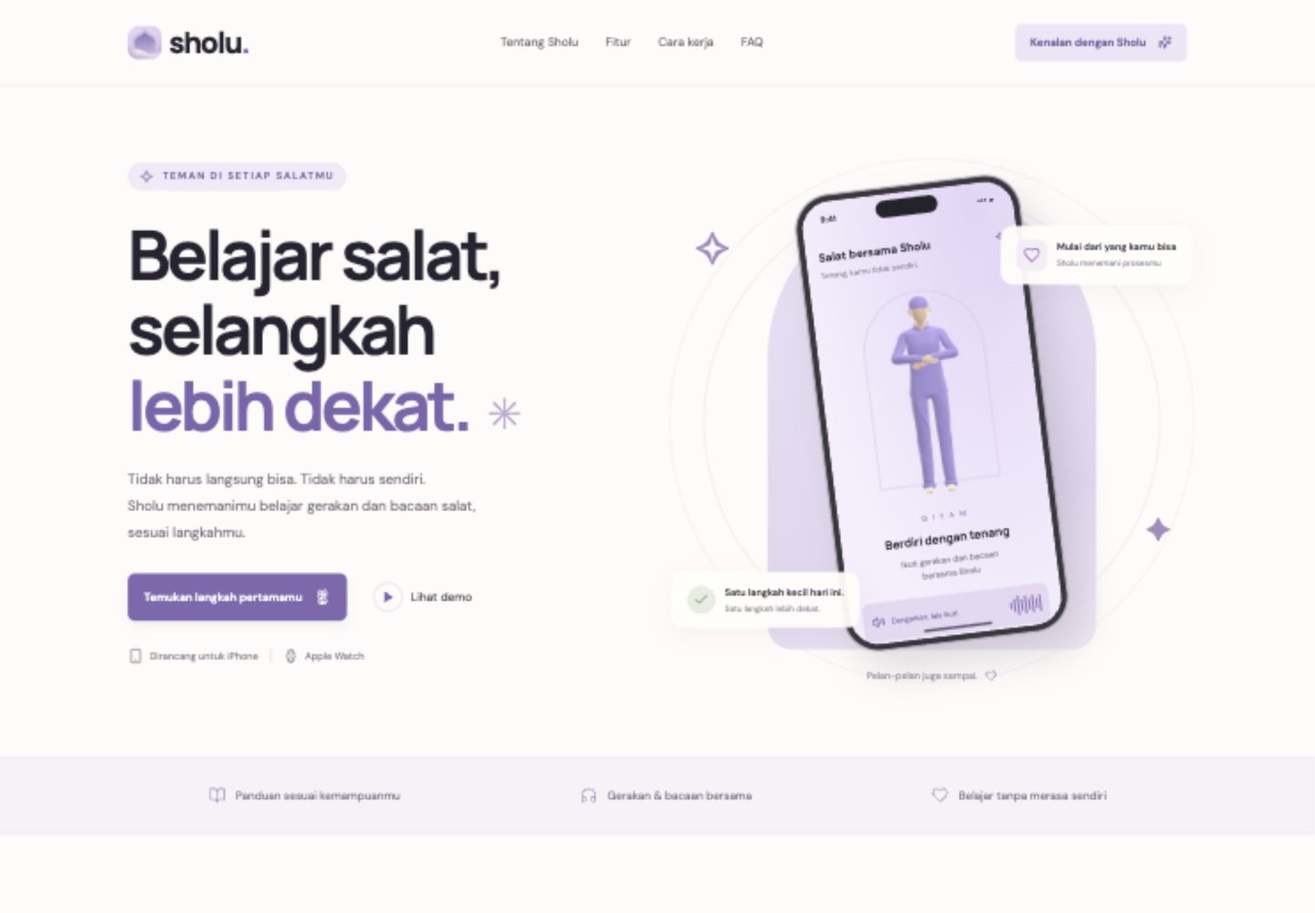
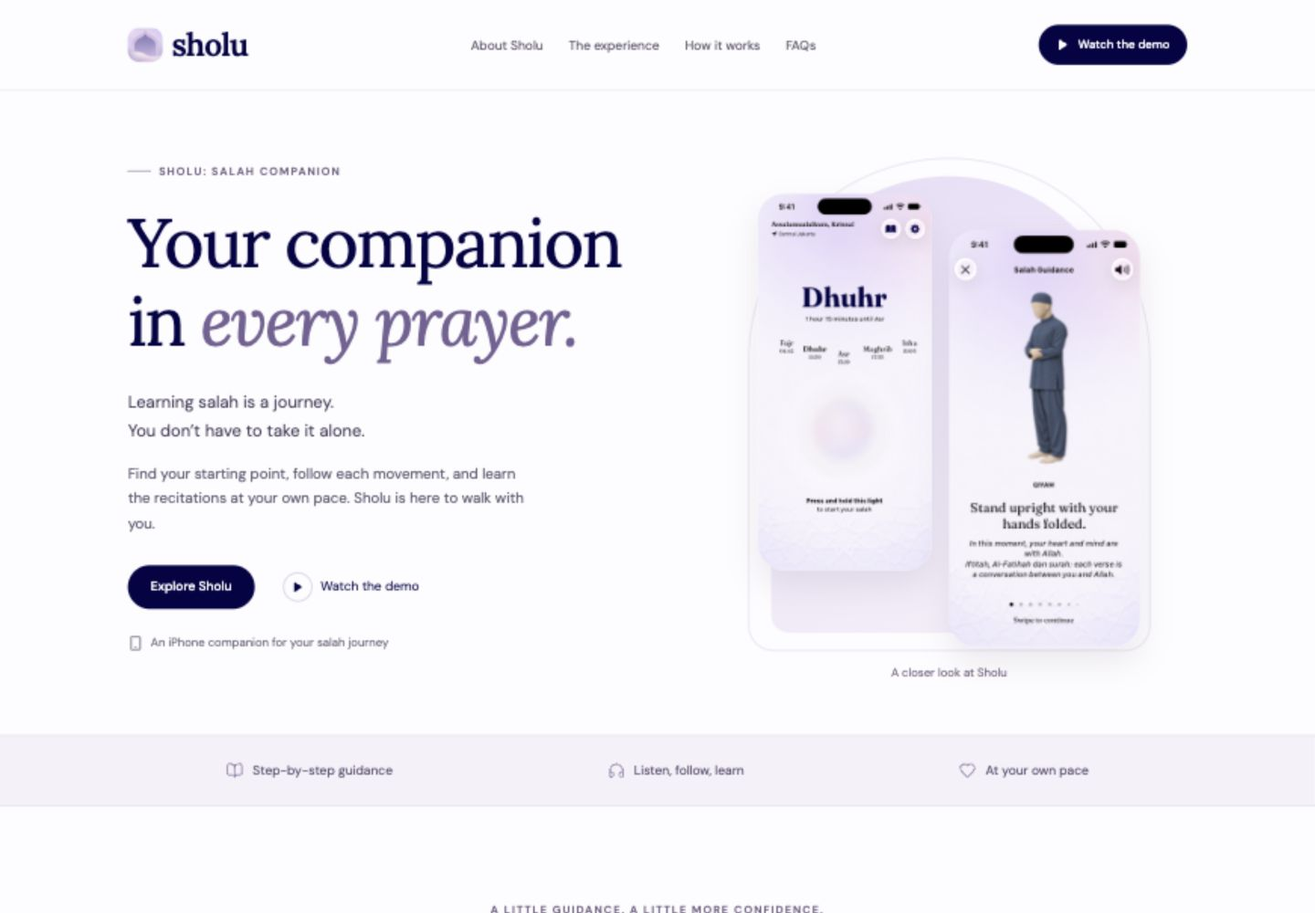
fix: change assets

diff --git a/src/styles.css b/src/styles.css
@@ -1,10 +1,7 @@
-@import url('https://fonts.googleapis.com/css2?family=DM+Sans:wght@400;450;500;550;600;650;700&family=Manrope:wght@400;500;600;650;700;750;800&display=swap');
-
-:root{font-family:'DM Sans',sans-serif;color:#252331;background:#fdfcfa;font-synthesis:none;font-size:16px;font-weight:400;--purple:#7d65af;--ink:#292435;--muted:#77727f;--line:#e9e5ee}*{box-sizing:border-box}html{scroll-behavior:smooth;scroll-padding-top:100px}body{margin:0}button,a{-webkit-tap-highlight-color:transparent}button,input{font:inherit}button,a,summary{touch-action:manipulation}button{cursor:pointer}a{color:inherit;text-decoration:none}button{color:inherit}button:focus-visible,a:focus-visible,summary:focus-visible{outline:3px solid #9f82d1;outline-offset:5px}button{border:0}button svg,a svg{flex-shrink:0}h1,h2,h3,p{margin:0}h1,h2,h3{font-family:'Manrope',sans-serif}h2{font-size:clamp(2rem,3.2vw,2.8rem);line-height:1.28;letter-spacing:-1.8px;font-weight:650}h2 span{color:var(--purple)}p{line-height:1.8;color:var(--muted)}.container{width:min(1160px,calc(100% - 96px));margin-inline:auto}.section{padding-block:104px}.section-label{font-size:.72rem;font-weight:650;letter-spacing:2.1px;color:var(--purple);display:flex;gap:9px;align-items:center;margin-bottom:22px}.header{height:94px;border-bottom:1px solid #eeebf0;background:#fdfcfaf5;position:relative;z-index:10}.nav{height:100%;display:flex;align-items:center;justify-content:space-between;gap:30px}.brand{display:flex;gap:8px;align-items:center;font-family:'Manrope',sans-serif;font-size:2rem;font-weight:800;letter-spacing:-1.7px}.brand img{width:37px;height:37px;border-radius:11px}.brand-dot{color:var(--purple)}.nav-links{display:flex;gap:30px;font-size:.82rem;color:#68636d}.nav-links a:hover{color:var(--purple)}.button{display:inline-flex;gap:13px;align-items:center;justify-content:center;border-radius:8px;padding:15px 22px;font-size:.8rem;font-weight:600;transition:transform .2s,background .2s}.button:hover{transform:translateY(-2px)}.nav-cta{background:#ece6f6;color:#6d559b;font-size:.75rem;padding:13px 17px}.primary{background:#8067af;color:white;box-shadow:0 5px 12px #765b9f16}.primary:hover{background:#6d559b}.menu-toggle{display:none;background:transparent}.hero{display:grid;grid-template-columns:1.02fr 1fr;align-items:center;min-height:735px;gap:30px;padding-block:42px 60px}.eyebrow{font-size:.68rem;letter-spacing:2px;display:flex;align-items:center;gap:8px}.hero-eyebrow{background:#f0eaf8;color:#7b629f;width:fit-content;padding:8px 13px;border-radius:30px;margin-bottom:27px;font-weight:600}.tiny-star{font-size:19px;line-height:15px}h1{position:relative;font-size:clamp(3.8rem,5.25vw,4.65rem);line-height:1.12;letter-spacing:-3.6px;font-weight:650;margin-bottom:26px}h1>span:not(.heading-spark){color:var(--purple)}.heading-spark{font-size:48px;color:#beadcf;display:inline-block;position:absolute;bottom:7px;margin-left:20px;font-weight:400}.hero-copy>p{font-size:.96rem;max-width:425px;line-height:1.85}.hero-actions{display:flex;align-items:center;gap:23px;margin-top:31px}.hero-actions .button{font-size:.76rem;padding:17px 18px}.video-button{background:transparent;display:flex;align-items:center;gap:9px;font-size:.8rem;white-space:nowrap}.play-circle{width:32px;height:32px;display:grid;place-items:center;border:1px solid #dcd4e7;border-radius:50%;color:var(--purple)}.platforms{display:flex;gap:7px;align-items:center;margin-top:30px;color:#8c8593;font-size:.68rem}.platform-divider{height:13px;width:1px;background:#d8d2dc;margin:0 6px}.hero-visual{position:relative;min-height:610px;display:flex;justify-content:center;align-items:center}.arch-back{width:360px;height:500px;background:linear-gradient(160deg,#e9e0f4,#e2d7ef 70%,#f0e9f4);border-radius:200px 200px 30px 30px;position:absolute;top:64px;left:50%;transform:translateX(-50%)}.orbit{position:absolute;border:1px solid #eae2f0;border-radius:50%;width:500px;height:500px;top:65px;left:50%;transform:translateX(-50%)}.orbit-two{width:575px;height:575px;top:26px;border-color:#f0eaf4}.phone{position:relative;width:249px;height:505px;background:#39363e;border:2px solid #b6b0bc;border-radius:40px;padding:6px;box-shadow:13px 24px 40px #4b355128;transform:rotate(-7deg);z-index:2}.phone-screen{height:100%;background:radial-gradient(ellipse at 80% 5%,#e4d5f8,transparent 75%),#f5effc;border-radius:32px;overflow:hidden;position:relative;padding:14px 14px}.phone-status{font-size:9px;font-weight:700;display:flex;justify-content:space-between;padding:0 7px}.phone-island{background:#25222b;width:68px;height:19px;position:absolute;top:7px;left:50%;transform:translateX(-50%);border-radius:20px}.phone-heading{margin-top:27px;display:flex;justify-content:space-between;font-size:.78rem;font-weight:650}.phone-subhead{font-size:.54rem;color:#8b7e98;margin-top:6px}.phone-pose{height:249px;display:flex;justify-content:center;position:relative;margin-top:9px}.phone-pose:before{content:'';position:absolute;width:130px;height:210px;border:1px solid #d8c9eb;border-radius:100px 100px 0 0;top:14px}.phone-pose img{width:175px;height:255px;object-fit:contain;position:relative;z-index:1}.phone-instruction{text-align:center;margin-top:0}.phone-instruction small{font-size:8px;letter-spacing:2px;color:#8e77aa}.phone-instruction h3{font-size:.8rem;margin:8px 0}.phone-instruction p{font-size:.58rem;line-height:1.6}.phone-audio{background:#e5d9f3;color:#795a9d;border-radius:9px;padding:11px 9px;margin-top:15px;display:flex;align-items:center;gap:7px;font-size:.5rem}.sound-wave{display:flex;align-items:center;gap:2px;margin-left:auto}.sound-wave i{width:2px;background:#8d70b5;border-radius:2px}.phone-bottom{position:absolute;bottom:7px;left:50%;transform:translateX(-50%);width:75px;height:3px;background:#645a71;border-radius:5px}.floating-note{position:absolute;background:#fffefaf2;border:1px solid #fff;box-shadow:0 7px 30px #5743650d;border-radius:13px;padding:14px 16px;display:flex;align-items:center;gap:10px;z-index:4;font-size:.66rem;font-weight:600;transform:rotate(0deg)}.floating-note small{display:block;color:#9a91a1;font-size:.57rem;margin-top:5px;font-weight:400}.note-top{top:100px;right:-5px}.note-icon{width:34px;height:34px;background:#f4edf9;color:#9677b9;display:grid;place-items:center;border-radius:10px}.note-bottom{bottom:70px;left:-5px}.check-badge{background:#e7ede2;color:#889777;width:31px;height:31px;display:grid;place-items:center;border-radius:50%}.visual-star{position:absolute;color:#a68bbb;z-index:4}.star-one{font-size:49px;left:20px;top:94px}.star-two{font-size:35px;right:18px;bottom:155px}.visual-caption{position:absolute;bottom:10px;left:50%;transform:translateX(-50%);white-space:nowrap;display:flex;gap:8px;align-items:center;font-size:.66rem;color:#a196aa}.values-strip{border-block:1px solid var(--line);background:#f6f3f9}.values-inner{display:flex;justify-content:space-around;gap:20px;align-items:center;min-height:82px}.values-inner>span{display:flex;align-items:center;gap:11px;font-size:.77rem;color:#756b80}.values-inner svg{width:19px;color:#a38ab8;stroke-width:1.5}.intro{text-align:center;max-width:720px;padding-bottom:80px}.intro .section-label{justify-content:center}.intro h2{margin-bottom:25px}.intro>p{font-size:.94rem;max-width:585px;margin:auto}.intro-signature{display:flex;gap:15px;align-items:center;justify-content:center;font-size:.7rem;color:#a49aa8;margin-top:30px}.signature-line{width:32px;height:1px;background:#dcd2e2}.section-heading{display:flex;align-items:flex-end;justify-content:space-between;gap:30px;margin-bottom:38px}.section-heading>p{font-size:.88rem;margin-bottom:5px}.features{padding-top:50px}.feature-grid{display:grid;grid-template-columns:repeat(3,1fr);gap:20px}.feature-card{border:1px solid #eae4ee;border-radius:18px;background:#f7f3fb;overflow:hidden;position:relative;min-height:447px;padding:28px 27px 22px}.feature-icon{width:40px;height:40px;border:1px solid #e5d9ee;display:grid;place-items:center;border-radius:12px;color:#9578b1;background:#ffffff60;margin-bottom:21px}.feature-card h3{font-size:1.3rem;line-height:1.5;letter-spacing:-.6px;font-weight:600;margin-bottom:12px}.feature-card p{font-size:.8rem;line-height:1.8}.recitation{background:#f7f7f2;border-color:#e8e8df}.recitation .feature-icon{color:#929a77;border-color:#e1e4d7}.qibla{background:#f9f3ee;border-color:#eee4dc}.qibla .feature-icon{color:#b99a7c;border-color:#eadccf}.movement-art{height:154px;display:flex;justify-content:center;gap:10px;position:relative;margin-top:20px}.mini-arch{height:148px;width:110px;background:#e6dbf1;border-radius:70px 70px 6px 6px;overflow:hidden;display:flex;justify-content:center}.mini-arch img{width:120px;height:185px;object-fit:contain;object-position:top}.mini-arch.second{background:#eae1f1}.second img{height:142px;width:105px;align-self:flex-end}.art-flower{position:absolute;right:8px;top:-8px;font-size:32px;color:#b8a2c7}.card-footnote{display:block;font-size:.63rem;color:#9a8ca5;margin-top:15px;text-align:center}.audio-art{margin-top:28px;height:146px;text-align:center}.audio-label{display:flex;align-items:center;justify-content:center;gap:7px;color:#8c9573;font-size:.67rem}.waveform{height:86px;display:flex;gap:4px;align-items:center;justify-content:center}.waveform i{width:4px;max-width:3%;background:#abb395;border-radius:5px}.audio-art>span:last-child{font-size:.64rem;color:#a0a48d}.recitation .card-footnote{color:#969a85}.compass-art{height:151px;width:151px;margin:18px auto 0;border-radius:50%;border:1px solid #dcc9b7;position:relative;background:repeating-conic-gradient(from 0deg,#ceb69d 0 1deg,transparent 1deg 15deg);box-shadow:inset 0 0 0 9px #f9f3ee}.compass-art>span{position:absolute;font-size:8px;color:#a58e7b;background:#f9f3ee;padding:2px}.north{top:11px;left:69px}.south{bottom:11px;left:69px}.west{left:12px;top:65px}.east{right:12px;top:65px}.compass-inner{position:absolute;inset:32px;border:1px solid #e3d6c8;background:#f9f3ee;border-radius:50%}.compass-needle{position:absolute;top:7px;left:34px;width:15px;height:69px;background:linear-gradient(#ba9978 50%,#e7dacd 50%);clip-path:polygon(50% 0,100% 50%,50% 100%,0 50%);transform:rotate(33deg)}.compass-center{position:absolute;top:36px;left:36px;width:10px;height:10px;background:#f9f3ee;border:2px solid #b99a7c;border-radius:50%}.qibla .card-footnote{color:#ab9583}.journey-wrap{background:#f6f3f9;border-block:1px solid #ece5f0}.journey{display:grid;grid-template-columns:1fr 1fr;gap:100px;align-items:center}.guide-preview{background:#fffdfa;border:1px solid #e9e0ee;border-radius:20px;padding:24px 24px 19px}.preview-top{display:flex;justify-content:space-between;gap:10px;align-items:center;font-size:.68rem;color:#8b779f}.preview-top>span{display:flex;gap:7px;align-items:center}.preview-top small{font-size:.5rem;letter-spacing:1px;color:#b5a9bd}.preview-scene{height:320px;position:relative;display:flex;align-items:center;justify-content:center;margin-top:20px}.preview-arch{position:absolute;width:225px;height:285px;border-radius:130px 130px 0 0;background:linear-gradient(#e9dff5,#f8f4fc);bottom:15px}.preview-scene img{height:295px;width:260px;object-fit:contain;position:relative;animation:appear .35s ease}.preview-step-name{position:absolute;bottom:6px;font-size:.63rem;background:#fffdfbe8;padding:6px 15px;border-radius:20px;color:#8c739e;border:1px solid #ede4f3}.preview-controls{display:flex;gap:6px;padding:5px;background:#f2eef6;border-radius:9px;margin-top:16px}.preview-controls button{flex:1;padding:11px;background:transparent;border-radius:6px;color:#9a8aa8;font-size:.72rem}.preview-controls button.active{background:white;box-shadow:0 2px 8px #5d3e6b0b;color:#785d98}.guide-preview>p{font-size:.65rem;text-align:center;margin-top:14px}.journey-copy>p{font-size:.87rem;margin-top:21px}.journey-list{padding:0;list-style:none;display:flex;flex-direction:column;gap:25px;margin:29px 0 0}.journey-list li{display:flex;gap:16px;position:relative}.step-marker{width:36px;height:36px;border:1px solid #e0d5e9;border-radius:50%;display:grid;place-items:center;flex-shrink:0;color:#a188b4;background:#faf7fc}.journey-list li:not(:last-child):before{content:'';position:absolute;top:42px;bottom:-19px;left:18px;width:1px;background:#e1d8e8}.journey-list h3{font-size:.85rem;margin:2px 0 7px;font-weight:650}.journey-list p{font-size:.77rem;line-height:1.7}.watch-section{display:grid;grid-template-columns:1fr 1fr;align-items:center;gap:80px;padding-top:110px;padding-bottom:90px}.watch-copy>p{font-size:.88rem;margin-top:22px;max-width:410px}.device-note{display:flex;gap:8px;align-items:center;color:#a297aa;font-size:.67rem;margin-top:24px}.watch-art{height:340px;display:flex;align-items:center;justify-content:center;position:relative;background:radial-gradient(ellipse,#eee6f7,transparent 66%)}.watch-orbit{width:310px;height:310px;position:absolute;border:1px solid #eee6f3;border-radius:50%}.watch-strap{width:123px;height:332px;background:linear-gradient(90deg,#c1adc9,#d5c4db 25%,#d4c3da 75%,#b9a3c2);border-radius:33px;transform:rotate(12deg);position:absolute;border:1px solid #bda9c6}.watch-body{width:187px;height:220px;background:#b9afbf;padding:7px;border-radius:46px;transform:rotate(12deg);box-shadow:12px 18px 25px #4e3f5c21;border:2px solid #dcd4de;position:relative}.watch-crown{position:absolute;right:-8px;top:49px;width:7px;height:26px;background:#aba1b2;border-radius:0 4px 4px 0}.watch-face{height:100%;background:#27202f;border:4px solid #3f3547;border-radius:36px;color:#e4d7f1;display:flex;flex-direction:column;align-items:center;padding:12px;position:relative}.watch-time{align-self:flex-end;font-size:.6rem}.watch-brand{position:absolute;left:12px;top:12px;font-size:.65rem;font-weight:700}.watch-face>svg{margin:9px 0;color:#bca2dc}.watch-face h3{font-size:.75rem;font-weight:500;margin-bottom:5px}.watch-face p{font-size:.51rem;line-height:1.6;text-align:center;color:#ac9cb9}.watch-pill{display:flex;align-items:center;gap:5px;background:#55416c;color:#dfcdef;font-size:.45rem;padding:7px 8px;border-radius:20px;margin-top:11px}.watch-spark{position:absolute;right:60px;top:30px;color:#b19ac5;font-size:46px}.faq-section{display:grid;grid-template-columns:.8fr 1.2fr;gap:90px;border-top:1px solid var(--line);padding-top:84px}.faq-heading>p{font-size:.85rem;margin-top:20px}.faq-list details{border-bottom:1px solid var(--line);padding:23px 0}.faq-list details:first-child{padding-top:8px}.faq-list summary{display:flex;align-items:center;justify-content:space-between;gap:20px;list-style:none;cursor:pointer;font-size:.86rem;font-weight:500}.faq-list summary::-webkit-details-marker{display:none}.faq-list summary svg{color:#9d8bab;flex-shrink:0;transition:transform .2s}.faq-list details[open] svg{transform:rotate(180deg)}.faq-list details p{font-size:.8rem;margin-top:17px;max-width:510px}.closing{position:relative;overflow:hidden;background:#eee6f6;border:1px solid #e5d9ee;border-radius:23px;text-align:center;padding:70px 25px;margin-top:10px}.closing:after,.closing:before{content:'';position:absolute;border:1px solid #dfd1eb;border-radius:50%;width:480px;height:480px;right:-290px;top:-80px;pointer-events:none}.closing:after{right:auto;left:-330px;width:520px;height:520px;top:60px}.closing .section-label{justify-content:center;font-size:.65rem}.closing h2{font-size:3rem;letter-spacing:-1.8px}.closing>p{font-size:.86rem;margin-top:20px;color:#93829e}.closing .button{margin-top:26px}.closing-note{display:block;font-size:.63rem;color:#a48eb3;margin-top:17px}.closing-flower{position:absolute;top:28px;right:70px;font-size:66px;color:#d1bddf}.footer{min-height:133px;display:flex;align-items:center;gap:23px}.footer .brand{font-size:1.65rem}.footer .brand img{width:30px;height:30px;border-radius:9px}.footer>span{font-size:.68rem;color:#a69aaf}.footer>a:not(.brand){margin-left:auto;font-size:.68rem;color:#8b7a99}.footer .copyright{margin-left:15px;font-size:.6rem}.video-modal{width:min(960px,calc(100% - 32px));padding:0;border:1px solid #d8cce3;border-radius:16px;background:#fdfcfa;max-height:90dvh;box-shadow:0 30px 100px #16101f55}.video-modal::backdrop{background:#22182dcc;backdrop-filter:blur(8px)}.modal-header{display:flex;align-items:center;justify-content:space-between;padding:15px 20px;font-size:.85rem}.modal-header button{display:grid;place-items:center;background:#eee6f6;border-radius:50%;width:34px;height:34px}.video-modal video{display:block;width:100%;max-height:76dvh;background:#171020}.skip-link{position:fixed;top:-100px;left:12px;z-index:100;background:white;padding:14px}.skip-link:focus{top:12px}@keyframes appear{from{opacity:0;transform:translateY(7px)}to{opacity:1;transform:translateY(0)}}
-@media(min-width:1500px){.hero{min-height:790px}.hero-visual{transform:scale(1.07)}}
-@media(max-width:1100px){.container{width:calc(100% - 64px)}.nav-links{gap:20px}.hero{gap:10px}.hero-actions{gap:14px}.hero-actions .button{font-size:.67rem}.hero-visual{transform:scale(.91);transform-origin:center}.hero-copy{position:relative;z-index:3}h1{font-size:3.8rem}.heading-spark{font-size:36px;margin-left:10px}.journey{gap:50px}.feature-card{padding:24px 20px}.note-top{right:-15px}.note-bottom{left:-20px}}
-@media(max-width:800px){.header{height:80px}.nav-links{gap:17px;font-size:.73rem}.nav-cta{display:none}.hero{grid-template-columns:1fr 1fr;min-height:620px;padding-block:30px}.hero-visual{transform:scale(.76);margin-inline:-50px;min-height:580px}.hero-copy{min-width:310px}.hero-eyebrow{font-size:.55rem}h1{font-size:3.2rem;letter-spacing:-2.5px}.heading-spark{font-size:28px}.hero-copy>p{font-size:.82rem}.hero-actions{flex-wrap:wrap;gap:14px}.platforms{font-size:.57rem;gap:4px}.platforms svg{width:14px}.values-inner>span{font-size:.63rem;gap:6px}.values-inner svg{width:16px}.feature-grid{gap:12px}.feature-card{padding:21px 16px}.feature-card h3{font-size:1.05rem}.feature-card p{font-size:.72rem}.card-footnote{font-size:.55rem}.mini-arch{width:80px}.movement-art{gap:7px}.mini-arch img{width:100px}.second img{width:85px}.section{padding-block:76px}.section-heading>p{font-size:.78rem}.journey{gap:28px}.journey-copy h2{font-size:1.85rem;letter-spacing:-1px}.guide-preview{padding:19px 15px}.preview-top small{display:none}.journey-list{gap:20px}.journey-list p{font-size:.71rem}.watch-section{gap:40px}.watch-copy h2{font-size:2rem}.watch-spark{right:0}.faq-section{gap:40px}.closing h2{font-size:2.5rem}.footer{gap:15px}}
-@media(max-width:600px){.container{width:calc(100% - 40px)}.header{height:74px}.brand{font-size:1.8rem}.brand img{width:32px;height:32px}.nav{gap:12px}.menu-toggle{display:block;padding:7px;margin-right:-7px}.nav-links{display:none;position:absolute;top:73px;left:0;right:0;background:#fdfcfa;padding:25px;border-bottom:1px solid #e8e0ee;box-shadow:0 12px 20px #4736520b}.nav-links.open{display:flex;flex-direction:column;gap:24px}.hero{display:flex;flex-direction:column;gap:0;min-height:0;padding-top:43px;padding-bottom:24px}.hero-copy{width:100%;min-width:0}.hero-eyebrow{font-size:.58rem;margin-bottom:23px}h1{font-size:clamp(3.25rem,12.2vw,4.2rem);letter-spacing:-2.7px;line-height:1.13;margin-bottom:21px}h1 br:nth-of-type(2){display:none}h1>span:not(.heading-spark){display:block}.heading-spark{bottom:9px;right:18px;font-size:33px}.hero-copy>p{font-size:.88rem;max-width:350px}.desktop-break{display:none}.hero-actions{gap:16px;margin-top:24px;flex-wrap:nowrap}.hero-actions .button{font-size:.65rem;padding:15px 12px;gap:8px}.hero-actions .button svg{width:16px}.video-button{font-size:.72rem;gap:6px;padding:0}.play-circle{width:29px;height:29px}.platforms{font-size:.61rem;margin-top:23px}.hero-visual{width:100%;height:540px;min-height:540px;transform:scale(.84);margin-top:-10px;margin-bottom:-50px;margin-inline:0}.note-top{right:-15px;top:95px}.note-bottom{left:-15px;bottom:60px}.floating-note{padding:12px;font-size:.61rem}.floating-note small{font-size:.52rem}.arch-back{width:330px;height:470px;top:44px}.orbit-one{width:395px;height:395px;top:80px}.orbit-two{width:440px;height:440px;top:58px}.phone{width:235px;height:478px}.phone-pose{height:230px}.phone-pose img{height:238px}.phone-instruction h3{font-size:.74rem}.phone-audio{margin-top:12px}.star-one{left:0;top:65px}.star-two{right:0;bottom:130px}.visual-caption{bottom:-10px}.values-inner{min-height:0;flex-wrap:wrap;justify-content:center;gap:17px 20px;padding-block:21px}.values-inner>span{font-size:.62rem}.values-inner>span:last-child{flex-basis:100%;justify-content:center}.section{padding-block:66px}h2{font-size:2rem;letter-spacing:-1.1px}.section-label{font-size:.61rem;letter-spacing:1.6px;margin-bottom:19px}.intro>p{font-size:.84rem}.intro-signature{font-size:.6rem;gap:9px;line-height:1.6}.signature-line{width:17px;flex-shrink:0}.features{padding-top:10px}.section-heading{display:block;margin-bottom:28px}.section-heading>p{font-size:.82rem;margin-top:20px}.feature-grid{grid-template-columns:1fr;gap:16px}.feature-card{padding:26px;min-height:0}.feature-card h3{font-size:1.35rem}.feature-card p{font-size:.83rem;max-width:290px}.feature-icon{margin-bottom:16px}.movement-art{height:160px;margin-top:24px}.mini-arch{width:120px;height:154px}.mini-arch img{width:130px;height:192px}.second img{width:120px;height:150px}.art-flower{right:15px}.card-footnote{font-size:.65rem}.audio-art{margin-top:25px;height:130px}.audio-label{font-size:.72rem}.waveform{gap:5px}.audio-art>span:last-child{font-size:.67rem}.compass-art{margin-block:25px 12px}.journey{display:flex;flex-direction:column-reverse;gap:35px}.journey-copy h2{font-size:2rem}.journey-copy>p{font-size:.84rem}.journey-list{gap:24px}.journey-list h3{font-size:.85rem}.journey-list p{font-size:.8rem}.guide-preview{width:100%;padding:21px}.preview-top small{display:block;font-size:.46rem}.preview-scene{height:300px}.preview-scene img{height:280px}.preview-arch{height:275px}.guide-preview>p{font-size:.64rem}.watch-section{grid-template-columns:1fr;gap:26px;padding-bottom:50px}.watch-copy>p{font-size:.84rem}.watch-art{height:330px}.watch-spark{right:25px}.faq-section{grid-template-columns:1fr;gap:28px;padding-top:53px}.faq-heading>p{font-size:.83rem}.faq-heading>p br{display:none}.faq-list summary{font-size:.8rem;line-height:1.7}.faq-list details{padding:21px 0}.faq-list details p{font-size:.8rem}.closing{padding:57px 18px;border-radius:18px}.closing h2{font-size:2.2rem}.closing-flower{font-size:38px;right:16px;top:53px;color:#d9c8e5}.closing .section-label{font-size:.53rem;letter-spacing:1px}.closing>p{font-size:.8rem}.closing-note{font-size:.58rem}.footer{display:grid;grid-template-columns:1fr 1fr;gap:17px;padding-block:32px}.footer .brand{grid-column:1}.footer>span{font-size:.62rem}.footer>span:not(.copyright){grid-column:1;grid-row:2}.footer>a:not(.brand){grid-column:2;grid-row:1;margin-left:0;text-align:right;font-size:.62rem}.footer .copyright{grid-column:2;grid-row:2;margin:0;text-align:right}.video-modal{width:calc(100% - 24px)}.modal-header{padding:12px;font-size:.75rem}}
-main{overflow-x:clip}
-@media(max-width:600px){.heading-spark{display:none}}
+@import url('https://fonts.googleapis.com/css2?family=DM+Sans:wght@400;500;600;700&family=Lora:ital,wght@0,400;0,500;0,600;1,400;1,500&display=swap');
+:root{font-family:'DM Sans',sans-serif;color:#070346;background:#fdfcfe;font-synthesis:none;--navy:#070346;--muted:#645e76;--lavender:#eee7fa;--line:#e5deed;--accent:#746194}*{box-sizing:border-box}html{scroll-behavior:smooth;scroll-padding-top:35px}body{margin:0}h1,h2,h3,p,figure{margin:0}button,a,summary{touch-action:manipulation;-webkit-tap-highlight-color:transparent}a{color:inherit;text-decoration:none}button{font:inherit;color:inherit;cursor:pointer;border:0}a,button,summary{transition:background .2s,color .2s,box-shadow .2s}button:focus-visible,a:focus-visible,summary:focus-visible{outline:3px solid #8461c3;outline-offset:5px}p{color:var(--muted);font-size:1rem;line-height:1.75}h1,h2{font-family:'Lora',Georgia,serif;font-weight:400;letter-spacing:-2px;line-height:1.17}h1{font-size:clamp(3.5rem,5.2vw,4.65rem)}h2{font-size:clamp(2.25rem,3.3vw,3rem)}h1 em,h2 em{font-weight:400;color:var(--accent)}h3{font-size:1.1rem;font-weight:600;line-height:1.5;letter-spacing:-.3px}.container{width:min(1160px,calc(100% - 96px));margin-inline:auto}.section{padding-block:104px}.eyebrow{display:flex;align-items:center;gap:9px;font-size:.75rem;font-weight:600;letter-spacing:1.8px;line-height:1.6;color:#726184;margin-bottom:24px}.eyebrow-line{width:25px;height:1px;background:#8e7aa5}.button{background:#070346;color:white;display:inline-flex;align-items:center;justify-content:center;gap:10px;min-height:48px;padding:14px 25px;border-radius:28px;font-size:.875rem;font-weight:500}.button:hover{background:#211966;box-shadow:0 5px 20px #07034617}.icon-button{width:44px;height:44px;display:grid;place-items:center;background:#eee8f6;border-radius:50%}.icon-button:hover{background:#e3d8f2}.brand{display:flex;gap:10px;align-items:center;font-family:'Lora',Georgia,serif;font-size:2.15rem;font-weight:600;letter-spacing:-1px}.brand img{border-radius:12px;object-fit:cover}.navigation{height:98px;display:flex;justify-content:space-between;align-items:center;gap:28px}header{border-bottom:1px solid #ede8f2;position:relative;z-index:10;background:#fdfcfe}.nav-links{display:flex;gap:28px;font-size:.875rem;color:#62596f}.nav-links a{padding-block:12px}.nav-links a:hover{color:#070346}.nav-button{font-size:.8rem;min-height:44px;padding:12px 19px}.mobile-menu{display:none}.hero{display:grid;grid-template-columns:1.1fr 1fr;align-items:center;gap:65px;min-height:706px;padding-block:55px 68px}.hero-copy h1{margin-bottom:29px}.hero-copy>p:not(.hero-description){font-size:1.15rem;color:#453d59;line-height:1.7}.hero-description{max-width:435px;margin-top:17px}.hero-actions{display:flex;align-items:center;gap:25px;margin-top:31px}.text-button{min-height:44px;background:transparent;display:flex;align-items:center;gap:9px;font-size:.875rem}.text-button:hover{color:#746194}.play-icon{width:32px;height:32px;display:grid;place-items:center;border:1px solid #ccc1dc;border-radius:50%}.hero-platform{display:flex;align-items:center;gap:8px;font-size:.8rem;color:#72687f;margin-top:29px}.hero-screens{height:555px;position:relative;display:flex;justify-content:center;align-items:center;gap:19px}.hero-arch{position:absolute;width:390px;height:500px;top:25px;border-radius:220px 220px 22px 22px;background:linear-gradient(155deg,#e8def8,#f4edf9 85%)}.arch-outline{position:absolute;width:440px;height:540px;top:5px;border-radius:240px 240px 30px 30px;border:1px solid #e5d9ef}.hero-screens img{display:block;width:100%;height:auto;border-radius:30px;box-shadow:0 16px 35px #34264a17}.home-screen{width:191px;position:relative;transform:translateY(-27px);z-index:2}.guide-screen{width:210px;position:relative;transform:translateY(35px);z-index:3}.screens-caption{position:absolute;bottom:-22px;color:#766884;font-size:.8rem}.promise-strip{background:#f5f1fa;border-block:1px solid var(--line)}.promises{display:flex;justify-content:space-around;gap:20px;padding-block:26px}.promises span{display:flex;gap:10px;align-items:center;font-size:.875rem;color:#5e5171}.promises svg{width:19px;color:#87729e;stroke-width:1.5}.intro{text-align:center;max-width:760px}.intro .eyebrow{justify-content:center}.intro h2{margin-bottom:28px}.intro>p{max-width:640px;margin:0 auto 15px}.intro-bottom{display:flex;justify-content:center;align-items:center;gap:15px;margin-top:30px;font-size:.875rem;color:#71617f}.intro-bottom>span{width:30px;height:1px;background:#d4c6e0}.experience{background:#f6f3fa;border-block:1px solid var(--line)}.section-heading{display:flex;justify-content:space-between;align-items:flex-end;gap:30px;margin-bottom:50px}.section-heading>p{max-width:400px}.experience-grid{display:grid;grid-template-columns:1fr 1fr;gap:85px;align-items:center}.screen-gallery{padding:28px 30px;background:#fdfcfe;border:1px solid #e8dfef;border-radius:22px}.gallery-stage{height:410px;display:flex;justify-content:center;align-items:center;position:relative}.screen-halo{position:absolute;inset:20px 45px;background:#eee6f8;border-radius:160px 160px 15px 15px}.gallery-stage img{position:relative;width:177px;height:auto;display:block;border-radius:25px;box-shadow:0 9px 24px #35234612;animation:appear .2s ease}.screen-tabs{display:flex;gap:5px;background:#f1ecf7;border-radius:30px;padding:5px;margin-top:23px}.screen-tabs button{min-height:44px;border-radius:24px;flex:1;font-size:.875rem;background:transparent;color:#6c5d7d}.screen-tabs button:hover{background:#e4daf0}.screen-tabs button.selected{background:#070346;color:white}.gallery-caption{text-align:center;margin-top:24px;min-height:112px}.gallery-caption h3{font-size:1rem;margin-bottom:8px}.gallery-caption p{font-size:.875rem}.experience-details>article{display:flex;gap:20px;margin-bottom:33px}.feature-icon{flex-shrink:0;display:grid;place-items:center;width:45px;height:45px;border:1px solid #d8cce5;border-radius:13px;color:#73608e}.feature-icon svg{width:21px}.experience-details h3{margin:4px 0 9px}.experience-details p{font-size:1rem}.recitation-screenshot{margin-top:35px;padding:20px;background:#ebe3f4;border:1px solid #e1d5eb;border-radius:18px}.recitation-screenshot img{display:block;width:100%;height:auto;border-radius:15px}.recitation-screenshot span{display:block;text-align:center;font-size:.8rem;margin-top:12px;color:#6b587e}.journey{display:grid;grid-template-columns:1.1fr 1fr;gap:100px;align-items:center}.journey-copy>p{margin-top:24px;max-width:470px}.journey-list{list-style:none;padding:0;margin:33px 0 0;display:flex;flex-direction:column;gap:27px}.journey-list li{display:flex;gap:19px}.journey-list li>span{width:35px;height:35px;flex-shrink:0;border-radius:50%;border:1px solid #ded4e9;color:#74618c;display:grid;place-items:center;font-size:.75rem}.journey-list h3{font-size:1rem;margin:2px 0 7px}.journey-list p{font-size:.9375rem}.personalization-figure{position:relative;text-align:center;padding:30px 25px 0}.personalization-arch{position:absolute;inset:0 20px 30px;background:#eee7f8;border-radius:190px 190px 15px 15px}.personalization-figure img{position:relative;display:block;width:205px;height:auto;border-radius:29px;box-shadow:0 14px 30px #35244c13;margin:auto}.personalization-figure figcaption{position:relative;margin-top:23px;font-size:.8rem;color:#776483}.reflection-wrap{background:#f6f2fa;border-block:1px solid var(--line)}.reflection{display:grid;grid-template-columns:.85fr 1.15fr;gap:65px;align-items:center}.reflection-copy p{margin-top:23px}.reflection figure{min-width:0}.reflection img{width:100%;height:auto;border-radius:20px;display:block;box-shadow:0 10px 32px #4e36540b}.reflection figcaption{text-align:center;font-size:.8rem;color:#786687;margin-top:16px}.faq{display:grid;grid-template-columns:.8fr 1.2fr;gap:85px}.faq>div>p{margin-top:24px}.faq-list details{padding:23px 0;border-bottom:1px solid var(--line)}.faq-list details:first-child{padding-top:0}.faq-list summary{list-style:none;cursor:pointer;display:flex;justify-content:space-between;gap:22px;align-items:center;min-height:44px;font-size:1rem;font-weight:500;line-height:1.65}.faq-list summary::-webkit-details-marker{display:none}.faq-list svg{flex-shrink:0;transition:transform .2s;color:#83718f}.faq-list details[open] svg{transform:rotate(180deg)}.faq-list details p{margin-top:15px;font-size:.9375rem}.closing{text-align:center;position:relative;overflow:hidden;background:#eee7f8;border:1px solid #e3d8ef;border-radius:24px;padding:75px 25px}.closing:before,.closing:after{content:'';position:absolute;width:370px;height:580px;top:30px;left:-240px;border-radius:210px 210px 0 0;border:1px solid #d7c8e6;pointer-events:none}.closing:after{left:auto;right:-240px;top:-100px}.closing .eyebrow{justify-content:center}.closing h2{font-size:3.4rem}.closing p{margin-top:24px}.closing .button{margin-top:28px}.closing-signature{display:block;font-size:.875rem;color:#716180;margin-top:22px}footer{display:flex;align-items:center;gap:30px;padding-block:42px;font-size:.8rem;color:#71657e}footer>div{display:flex;align-items:center;gap:20px;margin-right:auto}footer .brand{font-size:1.8rem}footer .brand img{width:31px;height:31px;border-radius:9px}footer>a{padding:12px 0}.video-modal{width:min(950px,calc(100% - 32px));border:1px solid #d7cbe2;border-radius:18px;padding:0;background:#fdfcfe;max-height:90dvh;box-shadow:0 30px 90px #130e3940}.video-modal::backdrop{background:#100b31cc;backdrop-filter:blur(7px)}.modal-header{padding:13px 20px;display:flex;align-items:center;justify-content:space-between}.modal-header h2{font-family:'DM Sans',sans-serif;font-size:1rem;letter-spacing:0}.video-modal video{display:block;width:100%;max-height:76dvh;background:#070346}.skip-link{position:fixed;top:-100px;left:12px;z-index:100;background:white;padding:14px}.skip-link:focus{top:12px}@keyframes appear{from{opacity:0}to{opacity:1}}
+@media(max-width:1100px){.container{width:calc(100% - 64px)}.hero{gap:35px}.hero-screens{gap:12px}.home-screen{width:160px}.guide-screen{width:180px}.hero-arch{width:320px;height:450px;top:50px}.arch-outline{width:365px;height:490px;top:30px}.nav-links{gap:19px;font-size:.8rem}.nav-button{padding:12px 15px}.experience-grid{gap:45px}.journey{gap:60px}.reflection{gap:40px}.faq{gap:50px}.hero-actions{gap:18px}.hero-platform{font-size:.75rem}.screens-caption{bottom:0}}
+@media(max-width:800px){.container{width:calc(100% - 48px)}.navigation{height:85px}.nav-button{display:none}.hero{gap:25px;padding-block:55px;min-height:620px}.hero h1{font-size:3rem;letter-spacing:-1.5px}.hero .eyebrow{font-size:.65rem}.hero-copy>p:not(.hero-description){font-size:1rem}.hero-description{font-size:.9375rem}.hero-screens{height:460px;gap:10px}.home-screen{width:133px}.guide-screen{width:148px}.hero-screens img{border-radius:22px}.hero-arch{width:260px;height:390px;top:20px}.arch-outline{width:290px;height:420px;top:5px}.hero-actions{flex-wrap:wrap;gap:10px 15px}.hero-platform{font-size:.72rem;line-height:1.65}.hero-platform svg{flex-shrink:0}.screens-caption{font-size:.75rem;bottom:-5px}.promises{gap:14px}.promises span{font-size:.75rem;gap:7px}.section{padding-block:75px}.eyebrow{font-size:.68rem;letter-spacing:1.5px}h2{font-size:2.35rem;letter-spacing:-1px}.section-heading{gap:25px}.section-heading>p{font-size:.875rem;max-width:265px}.experience-grid{gap:28px}.screen-gallery{padding:22px 15px}.gallery-stage{height:365px}.gallery-stage img{width:155px}.screen-halo{inset:20px 15px}.screen-tabs button{font-size:.75rem}.experience-details>article{gap:13px;margin-bottom:25px}.experience-details h3{font-size:1rem}.experience-details p{font-size:.9375rem}.feature-icon{width:37px;height:37px}.recitation-screenshot{padding:13px}.journey{gap:35px}.personalization-figure{padding-inline:15px}.personalization-figure img{width:175px}.personalization-arch{inset-inline:0}.personalization-figure figcaption{font-size:.75rem}.reflection{grid-template-columns:1fr;gap:35px}.reflection-copy{max-width:600px}.reflection figure{max-width:650px;width:100%;margin:auto}.faq{gap:35px;grid-template-columns:.8fr 1.2fr}.faq .eyebrow{font-size:.6rem}footer{flex-wrap:wrap;gap:20px;font-size:.75rem}footer>div{width:100%}footer>a{margin-left:auto}}
+@media(max-width:600px){.container{width:calc(100% - 40px)}.navigation{height:77px}.brand{font-size:1.85rem}.brand img{width:32px;height:32px;border-radius:10px}.mobile-menu{display:grid}.nav-links{display:none;position:absolute;top:76px;left:0;right:0;background:#fdfcfe;padding:20px;border-bottom:1px solid var(--line);box-shadow:0 12px 20px #21123e09}.nav-links.open{display:flex;flex-direction:column;gap:5px}.nav-links a{padding:13px;font-size:1rem}.hero{display:flex;flex-direction:column;gap:30px;padding-block:45px 43px}.hero-copy{width:100%}.hero h1{font-size:clamp(2.75rem,9.8vw,3.7rem);line-height:1.2;letter-spacing:-1.5px}.hero .eyebrow{font-size:.66rem;letter-spacing:1.4px;margin-bottom:23px}.hero-copy h1{margin-bottom:23px}.hero-copy>p:not(.hero-description){font-size:1.0625rem}.hero-description{font-size:1rem;margin-top:18px}.hero-actions{gap:18px;margin-top:25px;flex-wrap:nowrap}.button{padding:14px 22px;font-size:.875rem}.text-button{font-size:.8rem;gap:7px}.hero-platform{font-size:.75rem;margin-top:24px}.hero-screens{width:100%;height:475px;gap:14px;max-width:380px;margin-top:12px}.home-screen{width:143px;transform:translateY(-24px)}.guide-screen{width:158px;transform:translateY(25px)}.hero-arch{width:290px;height:420px;top:20px}.arch-outline{width:325px;height:455px;top:3px}.hero-screens img{border-radius:23px}.screens-caption{bottom:-6px}.promises{flex-wrap:wrap;gap:19px 22px;padding-block:24px}.promises span{font-size:.8rem}.promises span:last-child{width:100%;justify-content:center}.section{padding-block:64px}h2{font-size:2.25rem}.eyebrow{font-size:.65rem;letter-spacing:1.2px;line-height:1.8}.intro p{font-size:1rem}.intro-bottom{font-size:.8rem;gap:9px;line-height:1.7}.intro-bottom>span{width:15px;flex-shrink:0}.section-heading{display:block;margin-bottom:30px}.section-heading>p{font-size:1rem;max-width:none;margin-top:24px}.desktop-only{display:none}.experience-grid{grid-template-columns:1fr;gap:38px}.screen-gallery{padding:23px}.gallery-stage{height:390px}.gallery-stage img{width:169px}.screen-halo{inset:10px 22px}.screen-tabs button{font-size:.875rem}.gallery-caption{min-height:104px}.gallery-caption p{font-size:.9375rem}.experience-details>article{gap:16px;margin-bottom:30px}.experience-details p{font-size:1rem}.experience-details h3{font-size:1.05rem}.feature-icon{width:42px;height:42px}.recitation-screenshot{padding:18px;margin-top:24px}.recitation-screenshot span{font-size:.8rem}.journey{grid-template-columns:1fr;gap:45px}.journey-copy>p{font-size:1rem}.journey-list{gap:27px}.journey-list p{font-size:1rem}.journey-list h3{font-size:1rem}.personalization-figure{padding-top:25px;max-width:350px;width:100%;margin:auto}.personalization-figure img{width:190px}.personalization-figure figcaption{font-size:.8rem}.reflection{gap:30px}.reflection p{font-size:1rem}.reflection img{border-radius:13px}.reflection figcaption{font-size:.75rem;line-height:1.7}.faq{grid-template-columns:1fr;gap:32px}.faq .eyebrow{font-size:.65rem}.faq>div>p{font-size:1rem}.faq>div>p br{display:none}.faq-list summary{font-size:1rem}.faq-list details p{font-size:1rem}.faq-list details{padding-block:19px}.closing{padding:56px 21px;border-radius:18px}.closing h2{font-size:2.75rem}.closing p{font-size:1rem}.closing-signature{font-size:.8rem}.closing:before{left:-300px}.closing:after{right:-300px}footer{padding-block:33px;font-size:.75rem}footer>div{gap:16px}footer>div>span{font-size:.75rem}.modal-header{padding:10px 14px}}
+@media(max-width:359px){.hero-actions{gap:10px}.hero-actions .button{padding-inline:18px}.text-button{font-size:.75rem}.home-screen{width:125px}.guide-screen{width:138px}.hero-screens{height:420px;gap:10px}.hero-arch{width:255px;height:365px}.arch-outline{width:275px;height:395px}.screen-gallery{padding-inline:16px}}
 @media(prefers-reduced-motion:reduce){html{scroll-behavior:auto}*,*:before,*:after{animation:none!important;transition:none!important}}

diff --git a/public/assets/screens/SOURCES.md b/public/assets/screens/SOURCES.md
@@ -1,0 +1,19 @@
+# Sholu screen provenance
+
+These images are direct crops of the screenshots supplied by the project owner on 2026-11-23. App content, labels, illustrations, and interface elements have not been recreated or translated.
+
+- `home.png`: Screenshot 2026-11-23 at 20.13.29.png, home screen.
+- `personalization.png`: Screenshot 2026-11-23 at 20.13.11.png, completed personalization screen.
+- `qiyam.png`, `rukuk.png`, `sujud.png`: Screenshot 2026-11-23 at 20.13.29.png, Salah Guidance screens.
+- `recitation.png`: Screenshot 2026-11-23 at 20.13.29.png, landscape Final Tashahhud recitation screen.
+- `reflection.png`: Screenshot 2026-11-23 at 20.04.09.png, reflection screen, preserving its original Indonesian text.
+
+## Latest supplied app captures
+
+The home, movement guide, and recitation images now use the following original JPEGs without cropping, retouching, or translation:
+
+- `home-latest.jpeg`: WhatsApp Image 2026-11-23 at 20.33.04.jpeg (1206 × 2622).
+- `takbir-latest.jpeg`: WhatsApp Image 2026-11-23 at 20.33.04 (1).jpeg (1206 × 2622).
+- `recitation-latest.jpeg`: WhatsApp Image 2026-11-23 at 20.33.05.jpeg (2622 × 1206).
+
+Personalization now uses `personalization-latest.jpeg`, the unchanged original WhatsApp Image 2026-11-23 at 20.38.26.jpeg (1206 × 2622). Reflection still uses the previously supplied screenshot. Previous movement crops remain as source assets but are no longer displayed.
